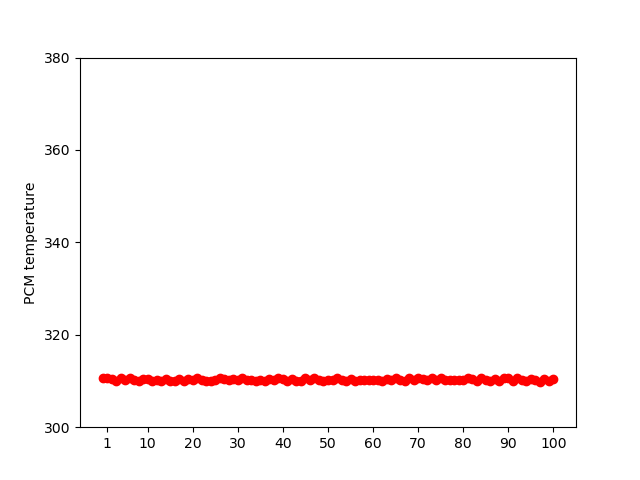
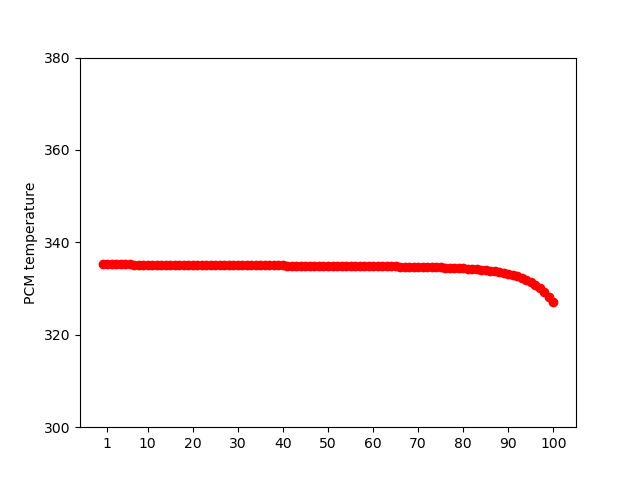
it is working

Changed region(s): [[0.1562, 0.5312, 0.875, 0.6562], [0.1562, 0.7812, 0.875, 0.8125]]

diff --git a/phasechange2025test5T2andT3.py b/phasechange2025test5T2andT3.py
@@ -5,6 +5,7 @@ import math
 import matplotlib.pyplot as plt
 from numpy import linalg as la
 
+''' I switched the WHILE loop for a DO-WHILE loop '''
 
 ##### time advancement #####
 N = 100;
@@ -24,7 +25,6 @@ rho = 900. #Kg/m3 density of substance      ###CHECK THIS PARAMETER ###
 lamda = 192000. #J/kg latent heat, es 161000 release during phase change of substance
 Cs = 2500. # J/kg K average specific heat (between liquid and solid states)
 # = 2500. + 28 * 1000. * np.exp( (T[i] - 25.881) / 11.91 ) # J/kg K
-k = 0.2 # thermal conductivity
 x=1./N #liquid fraction
 
 
@@ -34,8 +34,7 @@ length = 0.15 #length of the storage in meters
 U = 19.5 # losses W/m2 K obtained from UA product
 #Tref = 1. # Reference temperature in K
 P = 2. * math.pi * math.sqrt (At / math.pi ) # wetted perimeter in meters
-R12 = 0.7/2. * math.pi * length * k
-print (R12)
+
 
 #*****Dimensionless parameters*****#
 theta = (mf * cpf)/(rho *  At * length * Cs)
@@ -45,29 +44,25 @@ omega = (1. - np.exp( (-1.) * NTU/N))
 Y = Cs / dtheta
 
 
-#*****Vector sets*****#
-
-S=100
-#Nt = int(S/dt)            # nmb of time intervals
-#S = Nt*dt                 # adjust T to fit time step dt
-    
-Ta = np.zeros(10*N+1)         #ambient temperature   
+#*****Vector set ups*****#    
+Ta = np.zeros(100*N+1)         #ambient temperature   
 T = np.zeros(N+1)          #solid temperature
 TT = np.zeros(N+1)         
 Tf = np.zeros(N+1)          #fluid temperature
 T2 = np.zeros(N+1)          #solid temperature
 TT2 = np.zeros(N+1)         
 Tf2 = np.zeros(N+1)          #fluid temperature
+T = np.zeros(N+1)          #solid temperature
+TT3 = np.zeros(N+1)         
+Tf3 = np.zeros(N+1)          #fluid temperature
+
 
 a = np.zeros(N+1)
 b = np.zeros(N+1)
 
-a2 = np.zeros(N+1)
-b2 = np.zeros(N+1)
-
 #%%
 #***** External data*****#
-for i in range(0, 10*N +1 , 1): 
+for i in range(0, 100*N +1 , 1): 
     Ta [i] = 293.
 
 ##### CI ######
@@ -75,18 +70,19 @@ for i in range(0, N+1 , 1):
     b [i] = 0.5 * ( N * rho * At * length * Cs * omega  + Cs * rho * At * At * length * U  /(mf*cpf)) # J/ºC
     TT [i] = T [i] = 293.
     Tf [i] = 293.
-    TT2 [i] = T [i] = 293.
+    TT2 [i] = T2 [i] = 293.
     Tf2 [i] = 293.
-
+    TT3 [i] = T3 [i] = 293.
+    Tf3 [i] = 293.
 
 ##### BC ######
 Tf [0] = Tf [1] = 343. 
 Tf2 [0] = Tf2 [1] = 343. 
+Tf3 [0] = Tf3 [1] = 343. 
 
 
 ###### Print section #####
 deltatime = (Y - b[2]) / ( Y + b[2])
-#deltatime = dtheta
 dtm = 2. * 0.17 * Cs / (N * omega * mf * cpf + At * U)
 formatted_float = "{:.3f}".format(deltatime)
 formatted_vector = "{:.3f}".format(dtm)
@@ -94,56 +90,82 @@ print(formatted_float)
 print (formatted_vector)
 
 
-##### ITERATIVE PROCESS#####
+#*****Reading ambient temperature file*****#
+with open("Tamb2.txt", "r") as archivo:
+    #Tamb = archivo.read()
+    Tamb = archivo.readlines()
+    #Ta = list(Tamb)
+#Ta = [float(item.rstrip()) for item in Ta]
+#for i in range(0, N , 1):    
+    #print  "%.2f" % (Ta [i])
+#Ta = np.array(Ta,dtype="float")
 
-while(kk < 100.):
+#result =  np.la.cond(T)
+#print("Condition number of the matrix:")
+#print(result)
+
+
+##### ITERATIVE PROCESS#####
+while True:
     xx = x
-    x = 0.1 + (kk-5)*(1./N)        
-    for i in range(1, N + 1 , 1):     
+    x = 0.1 + (kk-5)*(1./N)   
+    for i in range(1, N + 1 , 1):      
         if T [i] < 310. or T [i] > 311.:
             a [i] = N * rho * At * length * Cs * omega * Tf [i-1] +  Cs * rho * At * At * length * U * Ta [kk]/(mf*cpf)
         else:
             a [i] = N * rho * At * length * Cs * omega * Tf [i-1] - (lamda/dtheta) * (x - xx) +  Cs * rho * At * At * length * U * Ta [kk]/(mf*cpf)
         TT [i] = T [i]         
-        T [i] = (Y - b[2]) * TT [i] / ( Y + b[2]) + a [i] / ( Y + b[2]) - T2 [i] - (abs (T2 [i] -TT [i]))/(0.001)
+        T [i] = (Y - b[2]) * TT [i] / ( Y + b[2]) + a [i] / ( Y + b[2]) - T2 [i] - (abs (T2 [i] - TT [i]))/(0.001)
         T [0] = T [1] 
         if i < N:
             Tf [i] = (1. - omega) * Tf [i-1] + omega * 0.5 * (T [i] + TT [i])
         else:
             Tf [i] = Tf [i-1]
        
-        if T2 [i] < 310. or T [i] > 311.:
+        if T2 [i] < 300. or T [i] > 301.:
             a2 [i] = N * rho * At * length * Cs * omega * Tf2 [i-1] +  Cs * rho * At * At * length * U * Ta [kk]/(mf*cpf)
         else:
             a2 [i] = N * rho * At * length * Cs * omega * Tf2 [i-1] - (lamda/dtheta) * (x - xx) +  Cs * rho * At * At * length * U * Ta [kk]/(mf*cpf)
         TT2 [i] = T2 [i]         
-        T2 [i] = (Y - b[2]) * TT2 [i] / ( Y + b[2]) + a [i] / ( Y + b[2]) - T [i] - (abs (TT2 [i] -T [i]))/(0.001)
+        T2 [i] = (Y - b[2]) * TT2 [i] / ( Y + b[2]) + a [i] / ( Y + b[2]) - T [i] - (abs (TT2 [i] - T [i]))/(0.001)
         T2 [0] = T2 [1] 
         if i < N:
             Tf2 [i] = (1. - omega) * Tf2 [i-1] + omega * 0.5 * (T2 [i] + TT2 [i])
         else:
             Tf2 [i] = Tf2 [i-1]    
-
-
-        if kk % 10 == 0:
-            plt.plot(T,'r--o')
+                  
+        if T3 [i] < 300. or T3 [i] > 301.:
+            a3 [i] = N * rho * At * length * Cs * omega * Tf3 [i-1] +  Cs * rho * At * At * length * U * Ta [kk]/(mf*cpf)
+        else:
+            a3 [i] = N * rho * At * length * Cs * omega * Tf3 [i-1] - (lamda/dtheta) * (x - xx) +  Cs * rho * At * At * length * U * Ta [kk]/(mf*cpf)
+        TT3 [i] = T3 [i]         
+        T3 [i] = (Y - b[2]) * TT3 [i] / ( Y + b[2]) + a [i] / ( Y + b[2]) - T2 [i] - (abs (TT3 [i] - T2 [i]))/(0.001)
+        T3 [0] = T3 [1] 
+        if i < N:
+            Tf3 [i] = (1. - omega) * Tf3 [i-1] + omega * 0.5 * (T3 [i] + TT3 [i])
+        else:
+            Tf3 [i] = Tf3 [i-1]    
+        
+        # Print section
+        if kk % 100 == 0:
+            plt.plot(T,'r--o',T2, 'bs', T3, 'g^')
             plt.ylabel('PCM temperature')
             #plt.xlabel('Nº of nodes')
-            plt.yticks ([300.,305.,310.,315.,320.])
+            plt.yticks ([300.,320.,340.,360.,380.])
             plt.xticks ([1, 10, 20, 30, 40, 50, 60, 70, 80, 90, 100])
             #plt.hold('on')
             plt.savefig('figure'+str(kk)+'.png', format='PNG')
             plt.clf()
-            
-
-        if kk % 10 == 0:
-            plt.plot(T2,'r--o')
-            plt.ylabel('PCM temperature')
-            #plt.xlabel('Nº of nodes')
-            plt.yticks ([300.,305.,310.,315.,320.])
-            plt.xticks ([1, 10, 20, 30, 40, 50, 60, 70, 80, 90, 100])
-            #plt.hold('on')
-            plt.savefig('figura'+str(kk)+'.png', format='PNG')
-            plt.clf()    
+            if (la.norm(T)-la.norm(TT))<1.:
+                break
+    
     kk = kk + 1
+    
 
+
+
+
+  
+
+
+       

diff --git a/phasechange2025test6.py b/phasechange2025test6.py
@@ -22,7 +22,7 @@ cpf = 1007. # J/Kg K specific heat fluid
 ######from Characterization of Alkanes and Paraffin Waxes for Application as Phase Change Energy Storage Medium SYUKRI HIMRAN  ARYADI SUWONO #####
 #m = 0.25 # Kg amount of substance
 rho = 900. #Kg/m3 density of substance      ###CHECK THIS PARAMETER ###
-lamda = 192000. #J/kg latent heat, es 161000 release during phase change of substance
+lamda = 155000. #J/kg latent heat, es 161000 release during phase change of substance
 Cs = 2500. # J/kg K average specific heat (between liquid and solid states)
 # = 2500. + 28 * 1000. * np.exp( (T[i] - 25.881) / 11.91 ) # J/kg K
 x=1./N #liquid fraction
@@ -31,7 +31,7 @@ x=1./N #liquid fraction
 #####Storage Recipied#######
 At = 0.0095 #m2 cross area of storage
 length = 0.15 #length of the storage in meters
-U = 19.5 # losses W/m2 K obtained from UA product
+U = 18. # losses W/m2 K obtained from UA product
 #Tref = 1. # Reference temperature in K
 P = 2. * math.pi * math.sqrt (At / math.pi ) # wetted perimeter in meters
 
@@ -45,7 +45,7 @@ Y = Cs / dtheta
 
 
 #*****Vector set ups*****#    
-Ta = np.zeros(100*N+1)         #ambient temperature   
+Ta = np.zeros(10*N+1)         #ambient temperature   
 T = np.zeros(N+1)          #solid temperature
 TT = np.zeros(N+1)         
 Tf = np.zeros(N+1)          #fluid temperature
@@ -56,7 +56,7 @@ b = np.zeros(N+1)
 
 #%%
 #***** External data*****#
-for i in range(0, 100*N +1 , 1): 
+for i in range(0, 10*N +1 , 1): 
     Ta [i] = 293.
 
 ##### CI ######
@@ -105,7 +105,7 @@ while True:
         TT [i] = T [i]         
         T [i] = (Y - b[2]) * TT [i] / ( Y + b[2]) + a [i] / ( Y + b[2])
         T [0] = T [1] 
-        #print ("es el coef positivo?",(Y - b[2]) / ( Y + b[2]))   
+        #print ("es el coef positivo and smaller then 1?",(Y - b[2]) / ( Y + b[2]))   
         print ("is a variable",a [i])
         if i < N:
             Tf [i] = (1. - omega) * Tf [i-1] + omega * 0.5 * (T [i] + TT [i])
